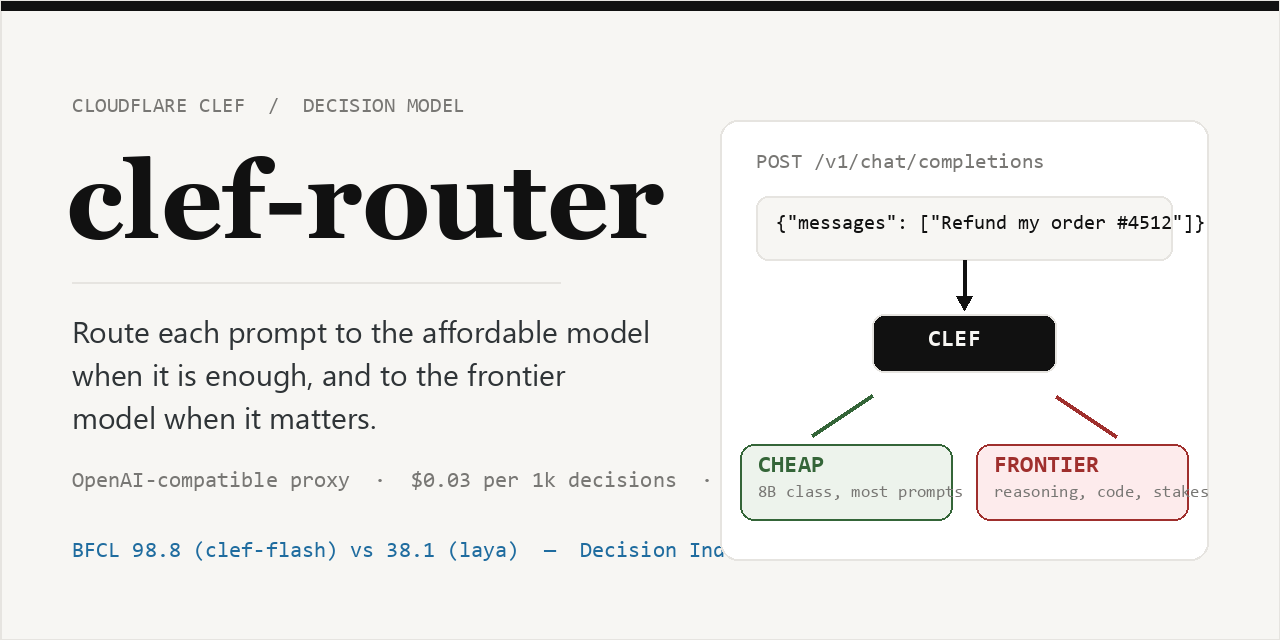
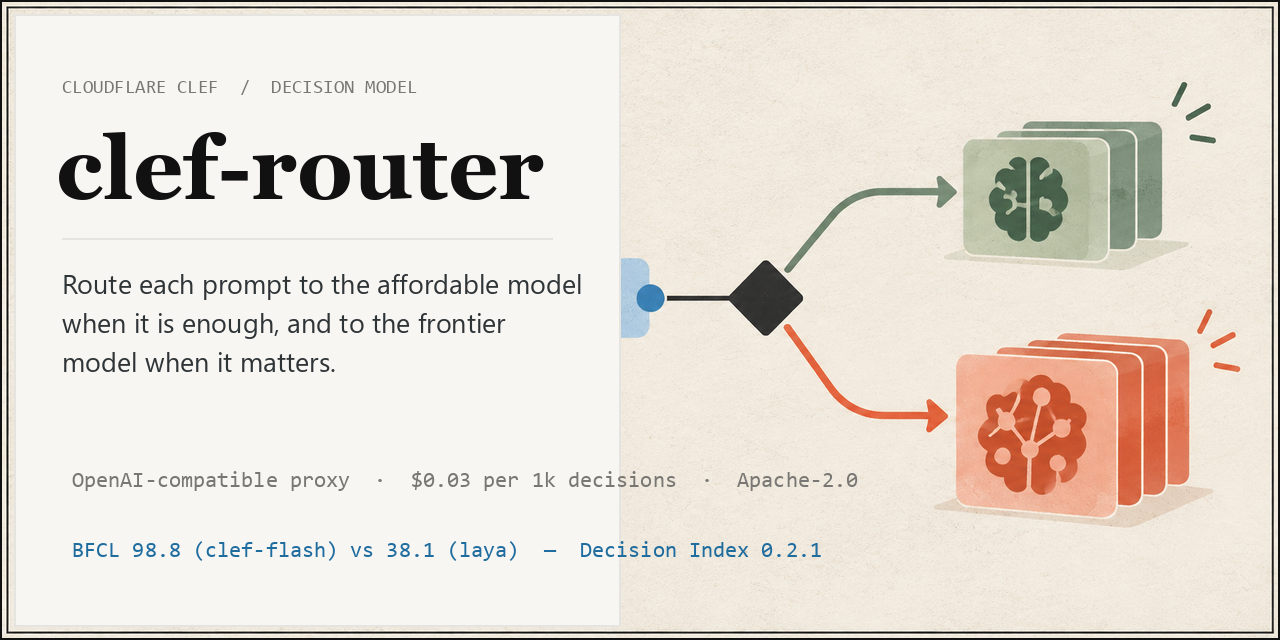
docs: link public Kaggle notebooks, art-based social preview, Kaggle badges
- both Kaggle kernels verified publicly accessible without auth
- README: Kaggle badges in the header, notebook links in Reproduce section
- social preview regenerated from the new artwork source

diff --git a/scripts/generate_assets.py b/scripts/generate_assets.py
@@ -2,6 +2,7 @@
 
 Outputs (committed):
     assets/logo.png            512x512 mark
+    assets/social-preview-art.png  AI-generated routing illustration source
     assets/social-preview.png  1280x640 repository social card
     docs/how-it-works.svg      static routing diagram for the README
     docs/how-it-works.html     self-contained animated explainer page
@@ -120,19 +121,22 @@ def tier_pill(d: ImageDraw.ImageDraw, box, label, sub, bg, fg) -> None:
 
 def make_social_preview(path: Path) -> None:
     W, H = 1280, 640
-    img = Image.new("RGB", (W, H), BONE)
+    art = Image.open(ROOT / "assets" / "social-preview-art.png").convert("RGB")
+    img = art.resize((W, H), Image.Resampling.LANCZOS)
     d = ImageDraw.Draw(img)
-    d.rectangle((0, 0, W, H), outline=HAIRLINE, width=2)
-    d.rectangle((1, 1, W - 2, 10), fill=INK)  # top brand bar
+    # The generated visual leaves the left third clear. This panel keeps the
+    # repository name readable in small social-feed previews.
+    d.rectangle((14, 14, 620, H - 14), fill=BONE)
+    d.rectangle((0, 0, W - 1, H - 1), outline=INK, width=2)
+    d.rectangle((14, 14, 620, H - 14), outline=HAIRLINE, width=2)
 
-    # Left column
-    d.text((72, 96), "CLOUDFLARE CLEF  /  DECISION MODEL", font=font(MONO, 21), fill=MUTED)
-    d.text((66, 138), "clef-router", font=font(SERIF_BOLD, 108), fill=INK)
-    d.line((72, 282, 560, 282), fill=HAIRLINE, width=2)
+    d.text((62, 78), "CLOUDFLARE CLEF  /  DECISION MODEL", font=font(MONO, 19), fill=MUTED)
+    d.text((56, 118), "clef-router", font=font(SERIF_BOLD, 88), fill=INK)
+    d.line((62, 238, 552, 238), fill=HAIRLINE, width=2)
     d.text(
-        (72, 310),
+        (62, 264),
         "Route each prompt to the affordable model\nwhen it is enough, and to the frontier\nmodel when it matters.",
-        font=font(SANS, 30), fill="#2F3437", spacing=10,
+        font=font(SANS, 27), fill="#2F3437", spacing=9,
     )
     d.text(
         (72, 470),
@@ -144,21 +148,6 @@ def make_social_preview(path: Path) -> None:
         "BFCL 98.8 (clef-flash) vs 38.1 (laya)  —  Decision Index 0.2.1",
         font=font(MONO, 22), fill=BLUE_FG,
     )
-
-    # Right diagram card
-    rounded_card(d, (720, 120, 1208, 560), radius=18, fill=CARD)
-    d.text((756, 152), "POST /v1/chat/completions", font=font(MONO, 21), fill=MUTED)
-    rounded_card(d, (756, 196, 1172, 260), radius=12, fill=BONE)
-    d.text((776, 214), '{"messages": ["Refund my order #4512"]}', font=font(MONO, 20), fill=INK)
-    # arrow into gate
-    d.line((964, 260, 964, 300), fill=INK, width=4)
-    d.polygon([(956, 296), (972, 296), (964, 310)], fill=INK)
-    rounded_card(d, (872, 314, 1056, 372), radius=12, fill=INK)
-    d.text((928, 328), "CLEF", font=font(MONO_BOLD, 24), fill=BONE)
-    d.line((872, 396, 812, 436), fill=GREEN_FG, width=4)
-    d.line((1056, 396, 1116, 436), fill=RED_FG, width=4)
-    tier_pill(d, (740, 444, 952, 520), "CHEAP", "8B class, most prompts", GREEN_BG, GREEN_FG)
-    tier_pill(d, (976, 444, 1188, 520), "FRONTIER", "reasoning, code, stakes", RED_BG, RED_FG)
 
     path.parent.mkdir(parents=True, exist_ok=True)
     img.save(path)
@@ -210,7 +199,7 @@ HOW_IT_WORKS_SVG = """<svg xmlns="http://www.w3.org/2000/svg" viewBox="0 0 960 4
 
 def make_svg(path: Path) -> None:
     path.parent.mkdir(parents=True, exist_ok=True)
-    path.write_text(HOW_IT_WORKS_SVG, encoding="utf-8")
+    path.write_text(HOW_IT_WORKS_SVG, encoding="utf-8", newline="\n")
 
 
 # --------------------------------------------------------------------------
@@ -339,7 +328,7 @@ HOW_IT_WORKS_HTML = """<!doctype html>
 
 def make_html(path: Path) -> None:
     path.parent.mkdir(parents=True, exist_ok=True)
-    path.write_text(HOW_IT_WORKS_HTML, encoding="utf-8")
+    path.write_text(HOW_IT_WORKS_HTML, encoding="utf-8", newline="\n")
 
 
 # --------------------------------------------------------------------------
@@ -518,6 +507,7 @@ def make_video(out_dir: Path, skip: bool) -> None:
         "enough, and to the frontier model when it matters. OpenAI-compatible, "
         "powered by Cloudflare's Clef decision model.\n",
         encoding="utf-8",
+        newline="\n",
     )
 
 

diff --git a/README.md b/README.md
@@ -1,4 +1,10 @@
 <p align="center">
+  <img src="assets/logo.png" alt="clef-router logo" width="92" />
+</p>
+
+<h1 align="center">clef-router</h1>
+
+<p align="center">
   <img src="assets/social-preview.png" alt="clef-router sends each prompt to the cheap or the frontier model" width="100%" />
 </p>
 
@@ -12,17 +18,44 @@
   <a href="https://pypi.org/project/clef-router/"><img src="https://img.shields.io/pypi/v/clef-router?label=PyPI&color=111111" alt="PyPI" /></a>
   <a href="pyproject.toml"><img src="https://img.shields.io/badge/Python-3.10%2B-3776AB?logo=python&logoColor=white" alt="Python 3.10+" /></a>
   <a href="LICENSE"><img src="https://img.shields.io/badge/License-Apache--2.0-346538" alt="Apache 2.0 license" /></a>
+  <a href="https://www.kaggle.com/code/gjusev/clef-router-evals"><img src="https://img.shields.io/badge/Kaggle-CPU%20notebook-20BEFF?logo=kaggle&logoColor=white" alt="Kaggle CPU notebook" /></a>
+  <a href="https://www.kaggle.com/code/gjusev/clef-router-gpu-evals"><img src="https://img.shields.io/badge/Kaggle-T4%20GPU%20notebook-20BEFF?logo=kaggle&logoColor=white" alt="Kaggle T4 GPU notebook" /></a>
 </p>
 
 <p align="center">
+  <a href="#demo"><strong>Demo</strong></a> &middot;
   <a href="#quickstart"><strong>Get started</strong></a> ·
   <a href="#how-it-works"><strong>How it works</strong></a> ·
   <a href="#benchmarks"><strong>Benchmarks</strong></a> ·
+  <a href="#reproduce-on-kaggle"><strong>Kaggle</strong></a> ·
   <a href="#clef-vs-laya"><strong>clef vs laya</strong></a> ·
   <a href="#limitations"><strong>Limitations</strong></a>
 </p>
 
 ---
+
+## Demo
+
+<p align="center">
+  <a href="brag-output/brag.mp4" title="Watch the 12-second clef-router demo">
+    <img src="brag-output/brag.jpg" alt="Preview of clef-router routing prompts between cheap and frontier model tiers" width="100%" />
+  </a><br />
+  <sub><strong>▶ <a href="brag-output/brag.mp4">Watch the 12-second product demo</a></strong> &mdash; routing decisions, policy safeguards, and measured results.</sub>
+</p>
+
+GitHub READMEs do not reliably render repository MP4s with native controls, so
+the video is presented as a clickable poster frame; it opens the generated
+[`brag.mp4`](brag-output/brag.mp4) directly.
+
+### At a glance
+
+| | |
+| --- | --- |
+| **Purpose** | Choose an affordable or frontier completion tier before your app calls the model. |
+| **Interface** | OpenAI-compatible proxy, Python client, async client, and CLI. |
+| **Decision model** | [Cloudflare Clef](https://huggingface.co/Cloudflare/clef), using one joint forward pass. |
+| **Safety policy** | Low confidence, urgent prompts, unknown answers, and parse failures escalate to frontier. |
+| **Evidence** | Committed fixtures, reproducible local evaluation, and public Kaggle CPU/T4 runs. |
 
 ## Quickstart
 
@@ -82,6 +115,13 @@ async with AsyncClefRouter() as router:
 ```
 
 ## How it works
+
+<p align="center">
+  <a href="docs/how-it-works.html">
+    <img src="docs/how-it-works.svg" alt="A client prompt enters Clef and is routed to either the cheap or frontier tier" width="100%" />
+  </a><br />
+  <sub>Static architecture overview. <a href="docs/how-it-works.html">Open the animated explainer</a>.</sub>
+</p>
 
 ```
    your app (OpenAI SDK)          your app (library / CLI)
@@ -274,13 +314,15 @@ Stated plainly, because routing libraries that hide these waste your time.
 
 ## Reproduce on Kaggle
 
-Two public kernels rerun the evaluation on Kaggle hardware:
+Two public notebooks rerun the evaluation on Kaggle hardware. Open them
+directly, fork them, or push the matching local kernel directory with the
+Kaggle CLI:
 
-- `evals/kaggle-kernel-gpu/` — GPU (T4): downloads the real `clef-flash`
+- [**GPU (T4) notebook — `gjusev/clef-router-gpu-evals`**](https://www.kaggle.com/code/gjusev/clef-router-gpu-evals) (`evals/kaggle-kernel-gpu/`): downloads the real `clef-flash`
   weights, routes every labeled prompt through the model, and writes
   `routing-gpu-eval.json`. Needs a GPU-verified account; about 15 minutes
   and a slice of your 30 h weekly quota.
-- `evals/kaggle-kernel/` — CPU: replays the committed fixtures through the
+- [**CPU notebook — `gjusev/clef-router-evals`**](https://www.kaggle.com/code/gjusev/clef-router-evals) (`evals/kaggle-kernel/`): replays the committed fixtures through the
   policy pipeline in about two minutes, no GPU or credentials.
 
 ```bash
